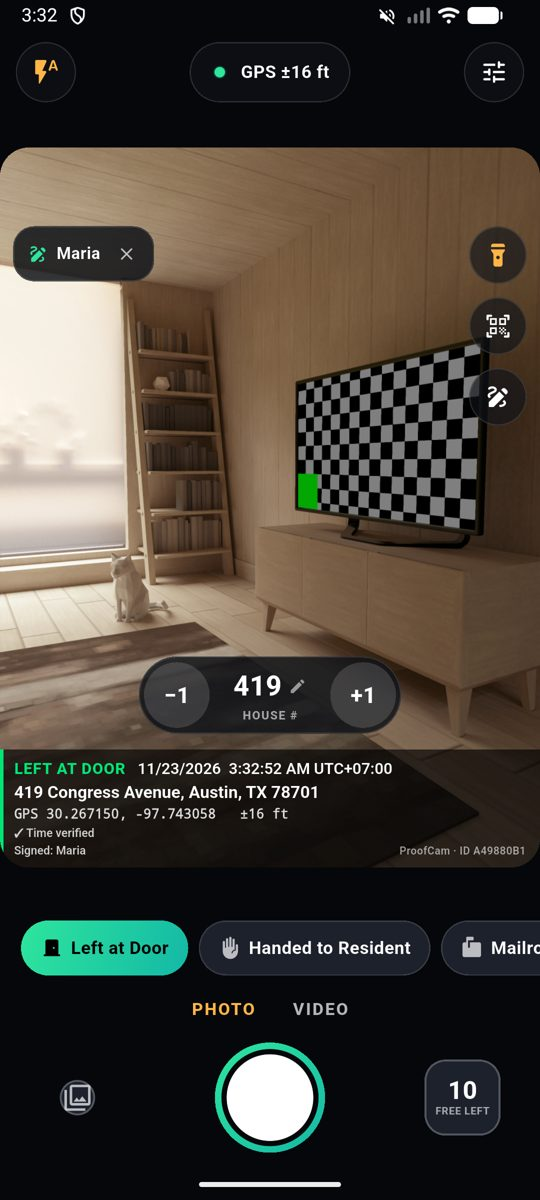
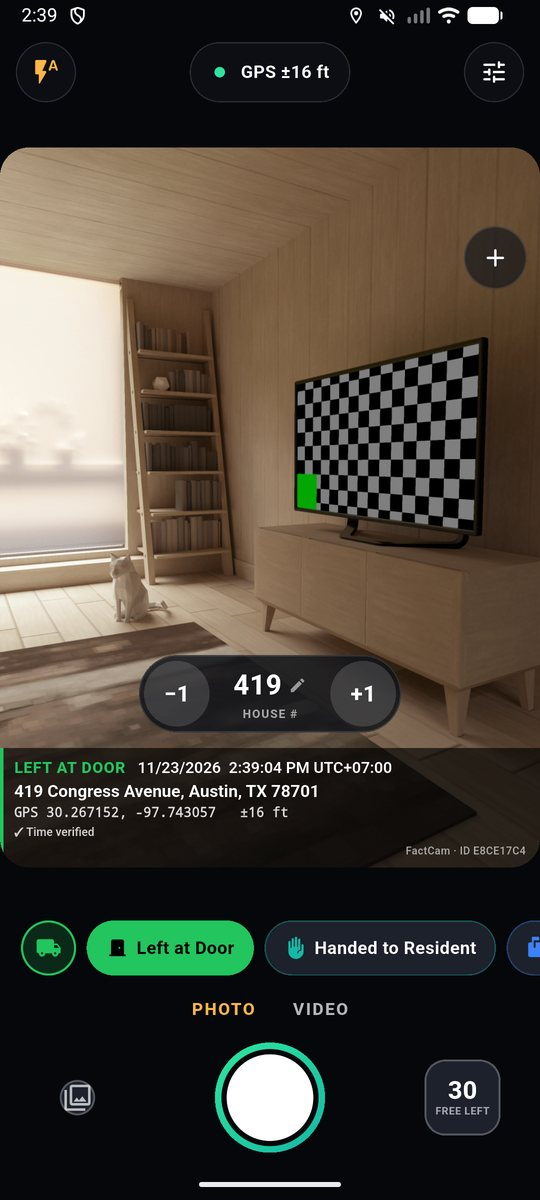
Update FactCam website

diff --git a/assets/site.js b/assets/site.js
@@ -25,7 +25,7 @@
     't3': 'Vệ sinh & dịch vụ', 't3s': 'Đã đến, trước/sau, bàn giao chìa khóa', 't4': 'Kiểm tra & kỹ thuật', 't4s': 'Đạt, không đạt, chỉ số đồng hồ',
     't5': 'Cho thuê & bàn giao xe', 't5s': 'Nhận, trả, hư hỏng có sẵn, số km', 't6': 'Bảo vệ & tuần tra', 't6s': 'Điểm tuần tra, bình thường, sự cố',
     't7': 'Chấm công', 't7s': 'Vào ca, tan ca kèm giờ và vị trí', 't8': 'Bảng công trình', 't8s': 'Tem dạng bảng công trình cho hồ sơ thi công',
-    'shots.1': 'Tem trực tiếp', 'shots.2': '6 kiểu tem', 'shots.3': 'Chi tiết bằng chứng', 'shots.4': 'Báo cáo PDF cả ca',
+    'shots.1': 'Công cụ một chạm', 'shots.2': '9 kiểu tem', 'shots.3': 'Chi tiết bằng chứng', 'shots.4': 'Báo cáo PDF cả ca',
     'band.title': 'Khách hàng tự kiểm tra – không cần tải ảnh lên', 'band.text': 'Trang Kiểm tra ảnh đọc dấu vân tay SHA-256, giờ và GPS trong file ngay trên máy người xem, đối chiếu với đoạn bằng chứng – và cả một file sao lưu ZIP.',
     'band.cta': 'Mở trang kiểm tra', 'band.c1': 'Khớp dấu vân tay SHA-256', 'band.c2': 'Đối chiếu ID, giờ, vị trí', 'band.c3': 'Kiểm tra cả file sao lưu ZIP', 'band.c4': 'In báo cáo kiểm tra',
     'price.eyebrow': 'Bảng giá', 'price.title': 'Miễn phí cho mỗi ca. Pro khi bạn bận.', 'price.sub': 'Bản miễn phí giữ nguyên chất lượng bằng chứng. Pro bỏ giới hạn và quảng cáo.',

diff --git a/index.html b/index.html
@@ -134,9 +134,9 @@
   <section style="padding-top:0">
     <div class="wrap">
       <div class="shots">
-        <figure><img src="assets/shot-camera.jpg" width="540" height="1200" alt="Camera screen" loading="lazy"><figcaption data-i18n="shots.1">Live stamp</figcaption></figure>
-        <figure><img src="assets/shot-styles.jpg" width="540" height="1200" alt="Stamp styles" loading="lazy"><figcaption data-i18n="shots.2">6 stamp styles</figcaption></figure>
-        <figure><img src="assets/shot-detail.jpg" width="540" height="1200" alt="Proof details" loading="lazy"><figcaption data-i18n="shots.3">Proof details</figcaption></figure>
+        <figure><img src="assets/shot-camera.jpg" width="540" height="1200" alt="Add to this proof" loading="lazy"><figcaption data-i18n="shots.1">One-tap tools</figcaption></figure>
+        <figure><img src="assets/shot-styles.jpg" width="540" height="1200" alt="Stamp styles" loading="lazy"><figcaption data-i18n="shots.2">9 stamp styles</figcaption></figure>
+        <figure><img src="assets/shot-detail.jpg" width="540" height="699" alt="Proof details" loading="lazy"><figcaption data-i18n="shots.3">Proof details</figcaption></figure>
         <figure><img src="assets/shot-pdf.jpg" width="540" height="699" alt="PDF report" loading="lazy"><figcaption data-i18n="shots.4">PDF shift report</figcaption></figure>
       </div>
     </div>
